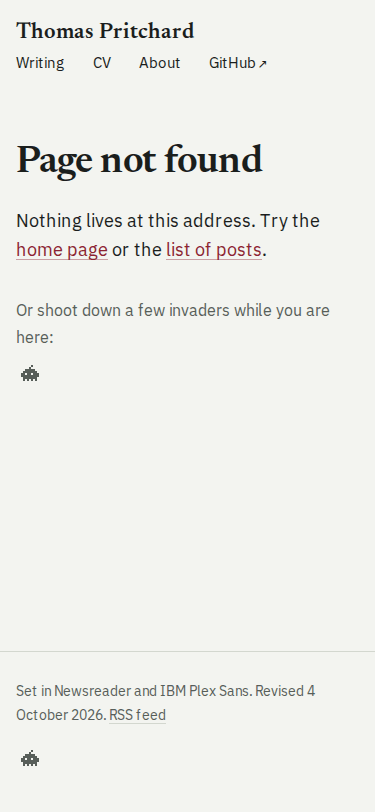
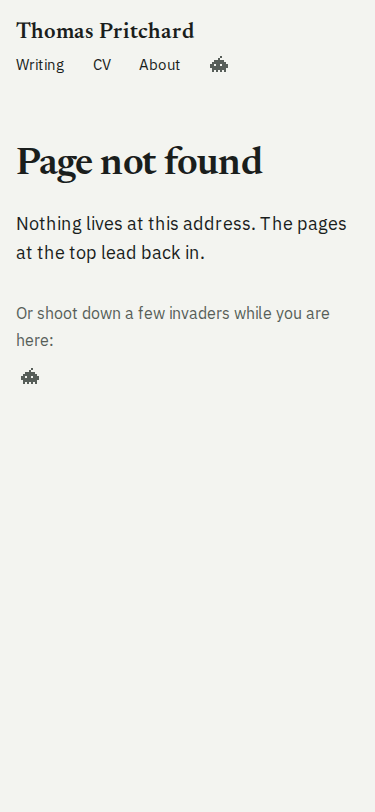
docs(design): log the owner review and refresh the screenshots
The plan log records each change of the 4 Oct review with its red run
and the gate run from a fresh clone; the 24 screenshots are refreshed
from that clone's production build, and the two case-compare images put
the shipped sentence case beside a throwaway Title Case variant that was
never committed. SYSTEM.md notes the headingCase setting.

diff --git a/plans/site-v2.md b/plans/site-v2.md
@@ -789,3 +789,97 @@ check-pages: 6 pages x 2 widths x 2 themes, 0 problems
 ```
 
 axe: 24 of 24 runs pass. `npm run shots` refreshed the 24 screenshots in `design/shots/` (11 KB to 211 KB): the committed ones still showed the CV lines removed above, the old portrait text and the old footer date.
+
+### 2026-10-04 owner review
+
+Four owner changes, then two more from the same review (via the lead): links once per page, and a Title Case comparison that does not change the site. A fresh agent reviews; the builder does not review its own work.
+
+#### Tags out of post meta
+
+The meta line on `/writing`, the home list and post pages is now the date and reading time. The feed never emitted `<category>`, so its golden test was untouched; nothing else read tags, so `tags` left the `Post` type, the frontmatter validation and the post page's Open Graph `article:tag`. Decision: the parser reads only the keys it knows and ignores the rest, so a stale `tags:` line is harmless; the two real posts lose theirs, and the `older-post.mdx` fixture keeps one to prove it is ignored. CONTEXT.md's Frontmatter entry says so. Red, `npx vitest run src/lib/posts.test.ts`:
+
+```
+   × getAllPosts > lists published posts newest first and leaves drafts out 28ms
+   × getAllPosts > ignores frontmatter keys it does not read, such as an old tags line, instead of carrying them onto the page 2ms
+AssertionError: expected { slug: 'older-post', …(6) } to deeply equal { slug: 'older-post', …(5) }
+AssertionError: expected [ Array(7) ] to deeply equal [ Array(6) ]
+      Tests  2 failed | 9 passed (11)
+```
+
+Green: `Tests  13 passed (13)` with the feed test.
+
+#### Footer gone, alien in the nav, GitHub out of the nav
+
+The colophon line went, and with it `src/lib/revised.ts` and its tests (nothing else used them). Choice for RSS: a quiet "RSS" link under the post list on `/writing`, not a footer link, because with the colophon and the alien gone a footer would have held one word; the people who look for a feed look where the posts are, and feed readers find it from the `<link rel="alternate">` that every page's head still carries. The footer element is deleted and `main` ends a section's gap below its last line.
+
+The alien moved into the nav next to About (Writing, CV, About, alien), with the Konami listener; the 404 page keeps its second alien. GitHub left the nav (owner item A). `scripts/check-pages.mts` opens the game from the nav's alien, expects focus back there after Escape, measures the nav on every page at both widths (items on one line, alien at least 28x28, no sideways scroll), and wants the printed CV on exactly one page like the PDF. Red, `npm run check:pages -- http://localhost:3006` (the owner's dev server, read only) before the move:
+
+```
+FAIL  nav / 375: 4 items, one line, right edge 268/375px, no alien (no alien button in the header nav)
+FAIL  nav / 1440: 4 items, one line, right edge 1228/1440px, no alien (no alien button in the header nav)
+FAIL  game / 1440 with the game open (reduced motion: no-preference): no alien button in the header nav to open the game from
+FAIL  game / 1440 with the game open (reduced motion: reduce): no alien button in the header nav to open the game from
+FAIL  print /cv A4: 2 pages, want 1 (110 KB, /tmp/check-pages-print-kkf8E8/cv-A4.pdf)
+FAIL  print /cv Letter: 2 pages, want 1 (110 KB, /tmp/check-pages-print-kkf8E8/cv-Letter.pdf)
+check-pages: 7 pages x 2 widths x 2 themes, 18 problems
+```
+
+(14 nav lines in all, one per page and width.) Green in the gate run below. At 375 the nav row ends at 233px of 375 with the alien's button 28x28.
+
+#### Links once per page
+
+The home page had three overlapping sets of links, and its section index used "About" and "Writing" for other places than the nav. Removed: the section index (and its CSS), the hero's CV link, the "longer version", "every role" and "all writing" links, the About paragraph's paper link (its row in Education and research links it), the post page's back link and the 404 page's two links. Two rules in `lintControls` keep it so, on built pages and in check-pages: `duplicate-href` (a second link to the same address, trailing slash ignored; same-page anchors exempt, since they move within the page and the skip link and footnote references need them) and `duplicate-label` (one visible label, read without aria-hidden glyphs and sr-only hints, on links to two places; anchors count here, so an "About" anchor beside the nav's About fails). The page did not feel too long without the index, so no section was cut. Red, `npx vitest run src/lib/slop.test.ts`:
+
+```
+   × controls budget > fails a second control beyond an entry's count, and every control on an unbudgeted route 13ms
+   × links appear once per page > fails a second link to the same address, a trailing slash or not, but not same-page anchors 2ms
+   × links appear once per page > fails two links with the same visible label that lead to different places, reading only the visible text 1ms
+   × lint-slop CLI > --built fails each planted control page and the planted CSS 752ms
+AssertionError: expected [ [ 'control-unlisted', 2 ] ] to deeply equal [ [ 'control-unlisted', 2 ], …(1) ]
+AssertionError: expected [] to deeply equal [ [ 'duplicate-href', 2 ], …(1) ]
+AssertionError: expected [] to deeply equal [ [ 'duplicate-label', 2 ], …(1) ]
+      Tests  4 failed | 60 passed (64)
+```
+
+Green: `Tests  64 passed (64)`. The `feat(pages)` commit's body was cut short by shell quoting; the next commit says so rather than rewriting history.
+
+#### /cv like the PDF CV
+
+Prior art: the PDF's own template and stylesheet (his CV build) give the layout and measures; Charis SIL, its face, is OFL and on Google Fonts, so it is adopted through `next/font/google`, loaded by `/cv` only (MANIFEST.yaml, SYSTEM.md). The page is a US Letter sheet of paper in both themes (in dark a step dimmer, `#e6e9e3`, with the colour tokens redefined inside it so links and focus are drawn for paper); in print it takes the PDF's margins and fits one page on A4 and Letter. Small line helpers in `src/lib/cv.ts`. Red, `npx vitest run src/lib/cv.test.ts` against stubs:
+
+```
+   × displayUrl > shows a profile address the way a printed CV does: no scheme, no www, no trailing slash 10ms
+   × displayUrl > gives the profile's own links as the CV header prints them 4ms
+   × educationLine > puts the credential after the institution and the note after the credential 2ms
+   × educationLine > leaves the note out when there is none 1ms
+   × elsewhereLine > joins the items into sentences, each head with its note after a comma 1ms
+   × elsewhereLine > is empty when there is nothing outside work 1ms
+   × elsewhereLine > sets the profile's three items on one line 1ms
+      Tests  7 failed (7)
+```
+
+Green: 7 passed. The sheet's tokens went into `contrast.test.ts` first (6 failing: the tokens did not exist), then green at 25 of 25.
+
+Differences from the PDF that remain, and why: no summary (the public `cv` has none); no phone, email or address, GitHub and LinkedIn only (ADR 0003); clients described and money figures off, so several bullets read differently and one is absent; a Stark role and an Elsewhere line the PDF does not have; headings in sentence case at 12pt instead of spaced capitals (owner rule); the name not letter-spaced; skills items keep the profile's capitals; the BSc line runs to two lines because of its Dean's List note; Google's build of Charis SIL sets bold a touch wider than the desktop font the PDF used; on screen, links are claret with the new-tab arrow.
+
+`scripts/cv-compare.mts` makes `design/shots/cv-compare-1440.png` and `cv-compare-print.png` (the sheet beside the PDF's first page at 96 dpi; the PDF's contact line painted over). They carry the private PDF, so `.gitignore` keeps them out of the repo; they are on the owner's disk only.
+
+#### Heading case as a setting
+
+`design/slop-allow.json` gains `headingCase` ("sentence", the default, or "title"). In title mode `sentenceCaseWords` names the words a Title Case heading gets wrong (small words lower case unless first or after a colon) and the rule is `sentence-case`. The site stays sentence case. Red:
+
+```
+   × sentenceCaseWords (Title Case mode) > names the words a Title Case heading leaves in lower case, small words apart 14ms
+   × sentenceCaseWords (Title Case mode) > names a small word capitalised in the middle, but not one that opens the heading or follows a colon 1ms
+   × heading case setting > in title mode passes Title Case headings and fails sentence-case ones 2ms
+   × heading case setting > in title mode reads the planted heading fixture the other way round 2ms
+   × heading case setting > applies to built pages too 2ms
+   × lint-slop CLI > refuses an allowlist whose headingCase is neither sentence nor title 641ms
+      Tests  6 failed | 66 passed (72)
+```
+
+Green: 72 passed (one proper-noun case added after green, as a guard). `design/shots/case-compare-1440.png` and `case-compare-375.png` put the home page in sentence case beside a throwaway Title Case variant (section headings and case-study titles only), built in a copy of the gate clone and never committed. On the judge criteria, sentence case wins: the brief's own list asks for sentence-case headings, and "reads as made by a person" and "restraint and hierarchy" favour it, since Title Case on every heading reads as a template; Title Case only helps the case-study titles scan as titles.
+
+#### Gates
+
+From a fresh `git clone --local` of `site-v2-kb` at 094cecb in a `mktemp -d` folder (`npm ci --prefer-offline`, `scripts/setup-dev.sh`), so the owner's dev server on 3006 kept its `.next`: `scripts/ci.sh` ends `slop: 0 hits in 0 of 8 files` and `ci: all gates green`. Then `npx next start -p 3016`, `npm run check:pages -- http://localhost:3016` (exit 0): controls and nav pass on all 6 routes at 375 and 1440, axe 24 of 24 runs pass, the game opens from the nav alien and gives focus back to it, `print /cv A4: 1 page, want 1` and `print /cv Letter: 1 page, want 1`, `0 problems`. `npm run shots` refreshed the 24 screenshots (8 KB to 204 KB, 256 colours).

diff --git a/design/SYSTEM.md b/design/SYSTEM.md
@@ -6,7 +6,7 @@ The tokens in `src/app/globals.css` are the source of truth; this file says why 
 
 The anti-slop list the owner set on 3 October 2026:
 
-- **No letter-spaced caps.** Sentence case everywhere. No `uppercase`, no `tracking-wide*`, no letter-spacing of 0.05em or more, no spaced-out capitals. Headings may tighten (down to -0.015em), never widen.
+- **No letter-spaced caps.** Sentence case everywhere (the slop lint’s `headingCase` setting in `design/slop-allow.json` is "sentence"; "title" exists only to compare the two, see `design/shots/case-compare-*.png`). No `uppercase`, no `tracking-wide*`, no letter-spacing of 0.05em or more, no spaced-out capitals. Headings may tighten (down to -0.015em), never widen.
 - **No pills or rounded boxes, except where they mean something.** Hairlines and space separate things; nothing is a card. Radius is 3px on code blocks and inline code only, and the lint fails anything over 4px. `design/slop-allow.json` has an empty radius list: any exception is listed there by component, with its reason, before it ships.
 - **No controls without a job.** Links are links, buttons are buttons. Every link, button and focusable element on each page is listed with its job in `design/CONTROLS.json` (the controls budget); the built-page lint and the rendered check fail anything unlisted. No theme toggle (the system setting already does that job), no search over a handful of posts, no print button on the CV.
 - **No grey filler under headings.** A heading is followed by content, a date, a number or a link, never a muted tagline.
